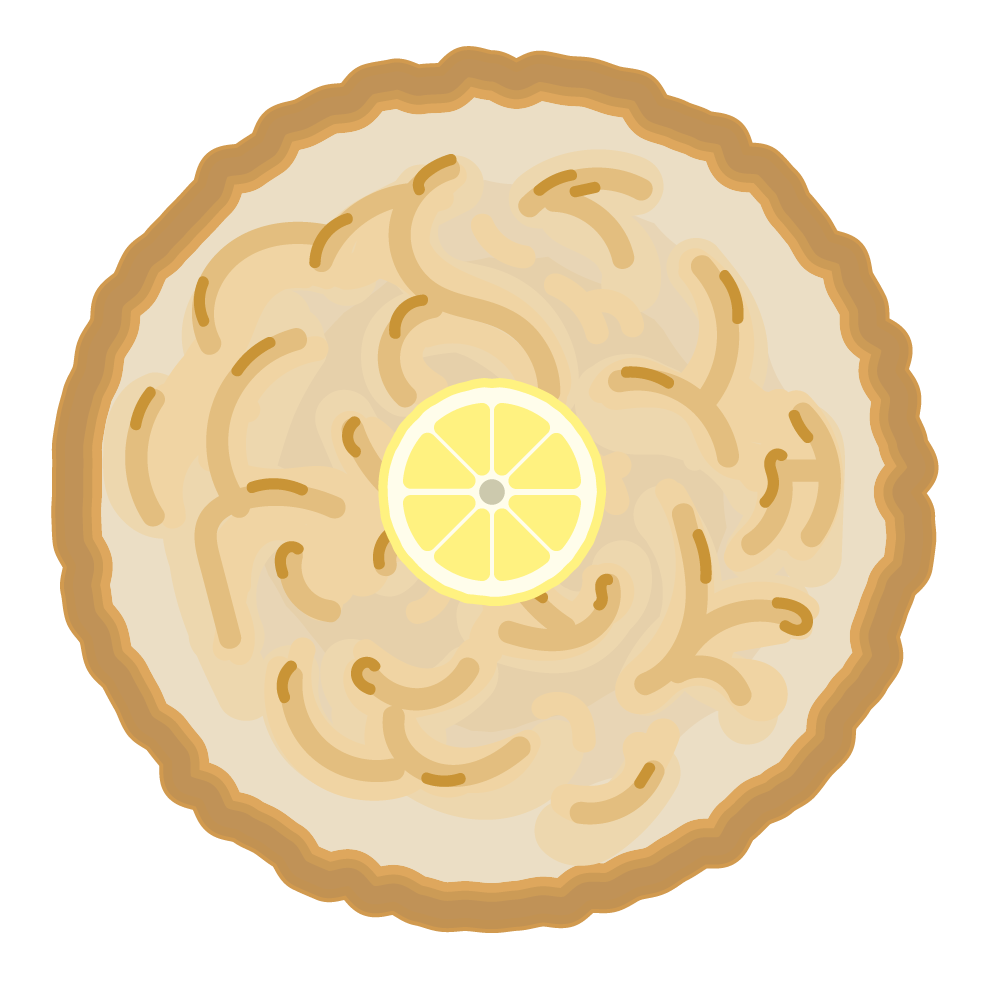
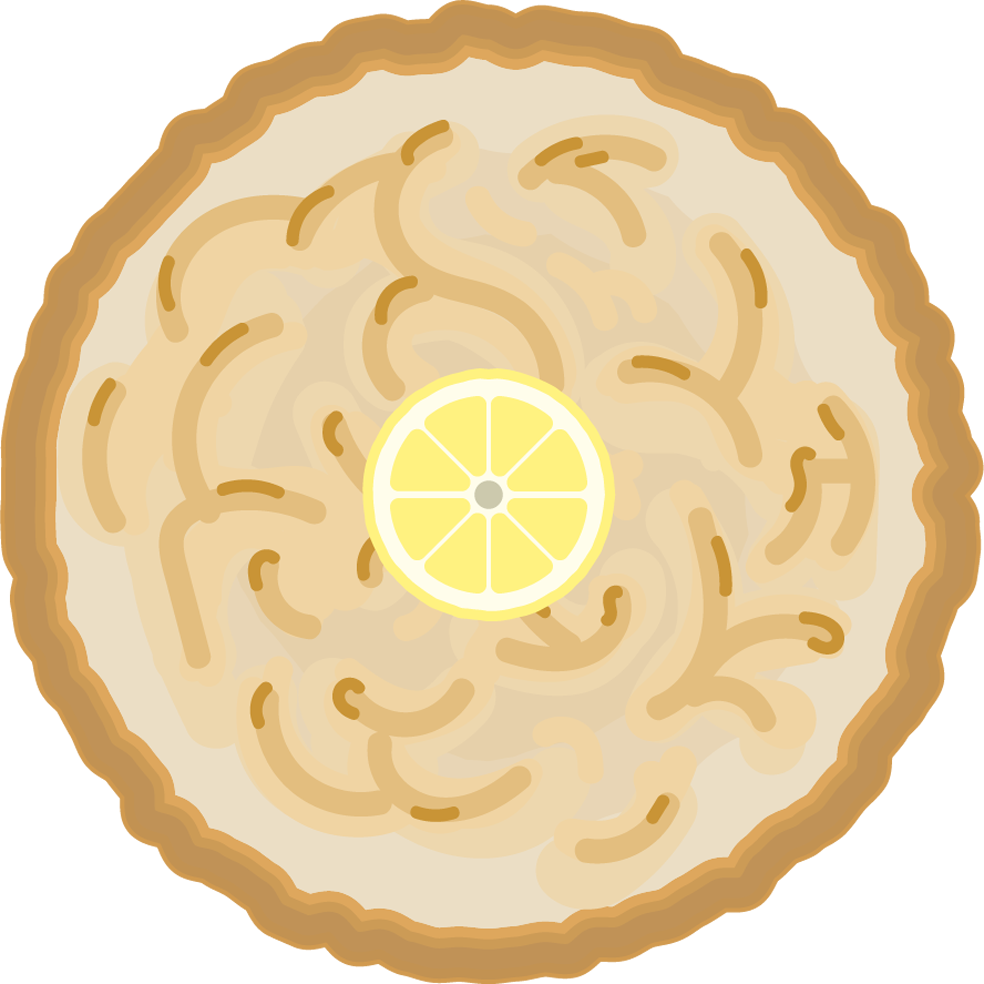
General Update

diff --git a/game.js b/game.js
@@ -1,27 +1,28 @@
-pies=0
-piesPerClick=1
-piesPerSecond=0
-pieClickAnimationId=0
-pieClickMultiplier=1
-pieClickUpgradePrice=500
-pieClickOvenPrice=15
-pieUpgradeTier=0
-chefUpgradeTier=0
-chefUpgradePrice=5000
-pieRotationDeg=0
-assistantChefAmount=0
-assistantChefMultiplier=1
-assistantChefPrice=10
-masterChefPrice=10000
-masterChefUnlocked=false
-rollingPinsPrice=250
-revampKitchenPrice=10000
-kitchenBackgroundImage=0
-nukePiePrice=100000000000000
-hasSeenCreditsThisSession=false
-settingsMute=false
-ticksUntilMSGFades=0
-doSaveGame=true
+pies                      = 0
+piesPerClick              = 1
+piesPerSecond             = 0
+pieClickAnimationId       = 0
+pieClickMultiplier        = 1
+pieClickUpgradePrice      = 500
+pieClickOvenPrice         = 15
+pieUpgradeTier            = 0
+chefUpgradeTier           = 0
+chefUpgradePrice          = 5000
+pieRotationDeg            = 0
+assistantChefAmount       = 0
+assistantChefMultiplier   = 1
+assistantChefPrice        = 10
+hangFlyersPrice           = 2500
+masterChefPrice           = 10000
+masterChefUnlocked        = false
+rollingPinsPrice          = 250
+revampKitchenPrice        = 10000
+kitchenBackgroundImage    = 0
+nukePiePrice              = 1000000000000
+hasSeenCreditsThisSession = false
+settingsMute              = false
+ticksUntilMSGFades        = 0
+doSaveGame                = true
 
 $(document).ready(()=>{
 	loadGame()
@@ -198,6 +199,11 @@ function refreshGame(){
 	}else if(chefUpgradeTier==9){
 		$("#MasterChefContainer").css({"display":"none"})
 	}
+	if(chefUpgradeTier>=3){
+		$("#UpgradeFlyersContainer").css({"display":"block"})
+	}else{
+		$("#UpgradeFlyersContainer").css({"display":"none"})
+	}
 	/* Background Image Mapping
 	0 = Blue Background
 	1 = Pink Background
@@ -225,6 +231,8 @@ function refreshGame(){
 	else $("#RevampKitchenContainer").css({"filter":"brightness(0.5)"})
 	if(canAfford(nukePiePrice))$("#NukePieContainer").css({"filter":"brightness(1)"})
 	else $("#NukePieContainer").css({"filter":"brightness(0.5)"})
+	if(canAfford(hangFlyersPrice))$("#UpgradeFlyersContainer").css({"filter":"brightness(1)"})
+	else $("#UpgradeFlyersContainer").css({"filter":"brightness(0.5)"})
 }
 
 function startClickUpgrade(elem){
@@ -333,6 +341,14 @@ async function PleasePlayTheCredits(){
 	$("#creditsName").fadeOut(500)
 	$("#creditsTitle").fadeOut(500)
 	await sleep(500)
+	$("#creditsName").html("Lucient Chapin")
+	$("#creditsTitle").html("Creative Director")
+	$("#creditsName").fadeIn(500)
+	$("#creditsTitle").fadeIn(500)
+	await sleep(2000)
+	$("#creditsName").fadeOut(500)
+	$("#creditsTitle").fadeOut(500)
+	await sleep(500)
 	$("#creditsName").html("Caleb Rhinehart")
 	$("#creditsTitle").html("Creative Director")
 	$("#creditsName").fadeIn(500)
@@ -343,14 +359,6 @@ async function PleasePlayTheCredits(){
 	await sleep(500)
 	$("#creditsName").html("Kylea Reed")
 	$("#creditsTitle").html("Project Manager")
-	$("#creditsName").fadeIn(500)
-	$("#creditsTitle").fadeIn(500)
-	await sleep(2000)
-	$("#creditsName").fadeOut(500)
-	$("#creditsTitle").fadeOut(500)
-	await sleep(500)
-	$("#creditsName").html("Lucient Chapin")
-	$("#creditsTitle").html("Test Player")
 	$("#creditsName").fadeIn(500)
 	$("#creditsTitle").fadeIn(500)
 	await sleep(2000)
@@ -368,9 +376,9 @@ async function PleasePlayTheCredits(){
 	$("#creditsOverlay").fadeOut(1000)
 	settingsMute=false
 	await sleep(300)
-	if(hasSeenCreditsThisSession==false){
-		x=getRndInteger(round(pies/4),round(pies/8))
-		messageGame("Thanks For Watching The Credits (+"+x+" Pies)")
+	if(!hasSeenCreditsThisSession&&pies>=500){
+		x=getRndInteger(round(pies/8),round(pies/10))
+		messageGame("Thanks For Watching The Credits (+"+piesToNumber(x)+" Pies)")
 		pies=pies+x
 	}
 	hasSeenCreditsThisSession=true
@@ -382,12 +390,8 @@ function canAfford(itemPrice){
 	else return false
 }
 
-function debugMenu(){
-	alert("Get Trolled")
-}
-
 async function messageGame(message){
-	ticksUntilMSGFades=ticksUntilMSGFades+3
+	ticksUntilMSGFades=ticksUntilMSGFades+2
 	$("#messageBar").stop(true,true)
 	$("#messageBarText").html(message)
 	$("#messageBar").fadeIn(100)
@@ -439,6 +443,7 @@ function purchaseRevampKitchen(elem){
 		clickFireworks($(elem),50)
 		piesPerSecond=piesPerSecond+round(piesPerSecond*0.1)
 		piesPerClick=piesPerClick+round(piesPerClick*0.1)
+		assistantChefAmount=assistantChefAmount+round(assistantChefAmount*0.1)
 		charge(revampKitchenPrice)
 		revampKitchenPrice=round(revampKitchenPrice*2.5)
 		kitchenBackgroundIMOld=kitchenBackgroundImage
@@ -459,10 +464,24 @@ function nuclearPieReactor(elem){
 		clickFireworks($(elem),50)
 		piesPerSecond=round(piesPerSecond*100)
 		charge(nukePiePrice)
-		nukePiePrice=round(nukePiePrice*100000)
+		nukePiePrice=round(nukePiePrice*100)
 		refreshGame()
 	}else{
 		messageGame("You Can\'t Afford This (Price: "+piesToNumber(nukePiePrice)+")")
+	}
+}
+
+function purchaseUpgradeFlyers(elem){
+	if(canAfford(hangFlyersPrice)){
+		clickFireworks($(elem),50)
+		charge(hangFlyersPrice)
+		hangFlyersPrice=round(hangFlyersPrice*2.5)
+		amountGained=getRndInteger(5,15)
+		assistantChefAmount=assistantChefAmount+amountGained
+		messageGame("You got +"+amountGained+" new assistant chefs!")
+		refreshGame()
+	}else{
+		messageGame("You Can\'t Afford This (Price: "+piesToNumber(hangFlyersPrice)+")")
 	}
 }
 
@@ -544,10 +563,10 @@ String.prototype.StringToBool=function(){
 async function goldenPie(){
 	if(!$('#goldenPie').length&&pies>=50){
 		$('#goldenPie').remove()
-		a=$(document).width()-$(document).height()*0.05
-		b=$(document).height()-$(document).height()*0.05
+		a=$(document).width()-$(document).width()*0.1
+		b=$(document).height()-$(document).height()*0.1
 		c=0
-		d=getRndInteger(4,8)
+		d=getRndInteger(3,10)
 		x=getRndInteger(0,a)
 		y=getRndInteger(0,b)
 		z=`<div id="goldenPie" style="position:fixed;left:${x}px;top:${y}px;height:${d}%;width:auto;display:none;cursor:pointer;" onclick="goldenPieFunc()">
@@ -577,7 +596,7 @@ async function goldenPieFunc(){
 
 function devMode(){
 	doSaveGame=false
-	alert("Dev Mode Enabled\n\nWill not save progress. Reload to disable dev mode.")
+	alert("*Dev Mode Enabled*\n\nWill not save progress.\nsReload to disable dev mode.")
 	pies=10**30
 	piesPerClick=10**10
 	piesPerSecond=10**10

diff --git a/game.html b/game.html
@@ -55,6 +55,9 @@
 				<div class="pieUpgrade" onclick="purchaseUpgradeRollingPins(this)" id="RollingPinsContainer">
 					<img src="./assets/UpgradeButtonRollingPin.png" style="width:100%;height:100%;" draggable="false" id="RollingPins">
 				</div>
+				<div class="pieUpgrade" onclick="purchaseUpgradeFlyers(this)" id="UpgradeFlyersContainer">
+					<img src="./assets/UpgradeFlyers.png" style="width:100%;height:100%;" draggable="false" id="UpgradeFlyers">
+				</div>
 				<div class="pieUpgrade" onclick="purchaseRevampKitchen(this)" id="RevampKitchenContainer">
 					<img src="./assets/UpgradeButtonRevampKitchen.png" style="width:100%;height:100%;" draggable="false" id="RevampKitchen">
 				</div>
@@ -198,7 +201,39 @@
 				</div>
 				<h3>Goal of the Game</h3>
 				<div class="uis_half">
-					Have fun.
+					Have fun. Get Pies.
+				</div>
+				<h3>Known Issues/Bugs</h3>
+				<div class="uis_half">
+					-If you have a saved price then price changes won't work.<br>
+					-If you have a saved multiplier and a new update comes out it will use the old multiplier instead of the current one.
+				</div>
+				<h3>Patch Notes [2.24.22]</h3>
+				<div class="uis_half">
+					-Retextured "Rolling Pins" Item<br>
+					-Nuke Pie price multiplier updated [100,000 -> 100]<br>
+					-Revamp Kitchen now effects Assistant Chefs<br>
+					-Added more size variation in Golden Pies<br>
+					-To get credits reward you must have +500 pies<br>
+					-Credits reward lowered [Min: /4 -> /8][Max: /6 -> /10]<br>
+					-Fully removed debug menu function<br>
+					-Patched issue with Golden Pie spawn location<br>
+					-Retextured Assistant Chefs<br>
+					-Retextured Apprentice Chefs<br>
+					-Retextured Advanced Chefs<br>
+					-Retextured Expert Chefs<br>
+					-Retextured Master Chefs<br>
+					-Retextured Grandmaster Chefs<br>
+					-Retextured GM Chef I<br>
+					-Retextured GM Chef II<br>
+					-Retextured GM Chef III<br>
+					-Retextured GM Chef IV<br>
+					-Pies in message bar after credits will now have number unit<br>
+					-Nuke Pie price changed [100t -> 1t]<br>
+					-Added "Hang Up Flyers" Upgrade<br>
+					-Changed message bar dispaly time<br>
+					-Added "Known Issues/Bugs" Section<br>
+					-Started work on the settings menu
 				</div>
 				<h3>Patch Notes [2.23.22]</h3>
 				<div class="uis_half">
@@ -267,7 +302,7 @@
 				<br>
 				<br>
 			</div>
-			<div id="uis_exit" onclick="$('#usefulInfoScreen').fadeOut(500)">
+			<div class="uis_exit" onclick="$('#usefulInfoScreen').fadeOut(500)">
 				<img src="./assets/x-circle-fill.svg" style="width:100%;height:100%;" draggable="false">
 			</div>
 		</div>
@@ -289,6 +324,38 @@
 				<div class="centerText" id="pm_btn2_real">
 					Btn2
 				</div>
+			</div>
+		</div>
+		<div id="settingsMenu">
+			<div class="slightPadding" style="overflow-y:scroll;">
+				<h3>PieClicker Game Settings</h3>
+				<div class="uis_half">
+					<table class="tableNoBorder">
+						<tbody class="tableNoBorder">
+							<tr class="tableNoBorder">
+								<td class="tableNoBorder">Mute Game</td>
+								<td class="tableNoBorder"><input type="checkbox"></td>
+							</tr>
+							<tr class="tableNoBorder">
+								<td class="tableNoBorder">Do Click Animations</td>
+								<td class="tableNoBorder"><input type="checkbox"></td>
+							</tr>
+							<tr class="tableNoBorder">
+								<td class="tableNoBorder">Do Purchase Animations</td>
+								<td class="tableNoBorder"><input type="checkbox"></td>
+							</tr>
+							<tr class="tableNoBorder">
+								<td class="tableNoBorder">Abbreviate Numbers</td>
+								<td class="tableNoBorder"><input type="checkbox"></td>
+							</tr>
+						</tbody>
+					</table>
+				</div>
+				<br>
+				<div style="font-size:2vh;">*Settings should autosave as soon as changed</div>
+			</div>
+			<div class="uis_exit" onclick="$('#settingsMenu').fadeOut(500)">
+				<img src="./assets/x-circle-fill.svg" style="width:100%;height:100%;" draggable="false">
 			</div>
 		</div>
 		<script src="./bootstrap.js"></script>

diff --git a/game.css b/game.css
@@ -260,7 +260,15 @@ table,thead,td{
 	border-collapse:collapse;
 }
 
-#uis_exit{
+.tableNoBorder{
+	padding-left:10px;
+	padding-right:10px;
+	padding-bottom:5px;
+	border-style:none;
+	border-collapse:collapse;
+}
+
+.uis_exit{
 	cursor:pointer;
 	position:absolute;
 	left:96%;
@@ -489,4 +497,19 @@ table,thead,td{
 	border-radius:5px;
 	background-color:rgba(0,0,0,0.5);
 	cursor:pointer;
+}
+
+#settingsMenu{
+	display:none;
+	position:absolute;
+	width:80%;
+	left:10%;
+	height:90%;
+	top:5%;
+	border-style:solid;
+    border-radius:7px;
+    border-color:black;
+    border-width:3.5px;
+    background-color:var(--bgTheme);
+    font-size:1vw;
 }
